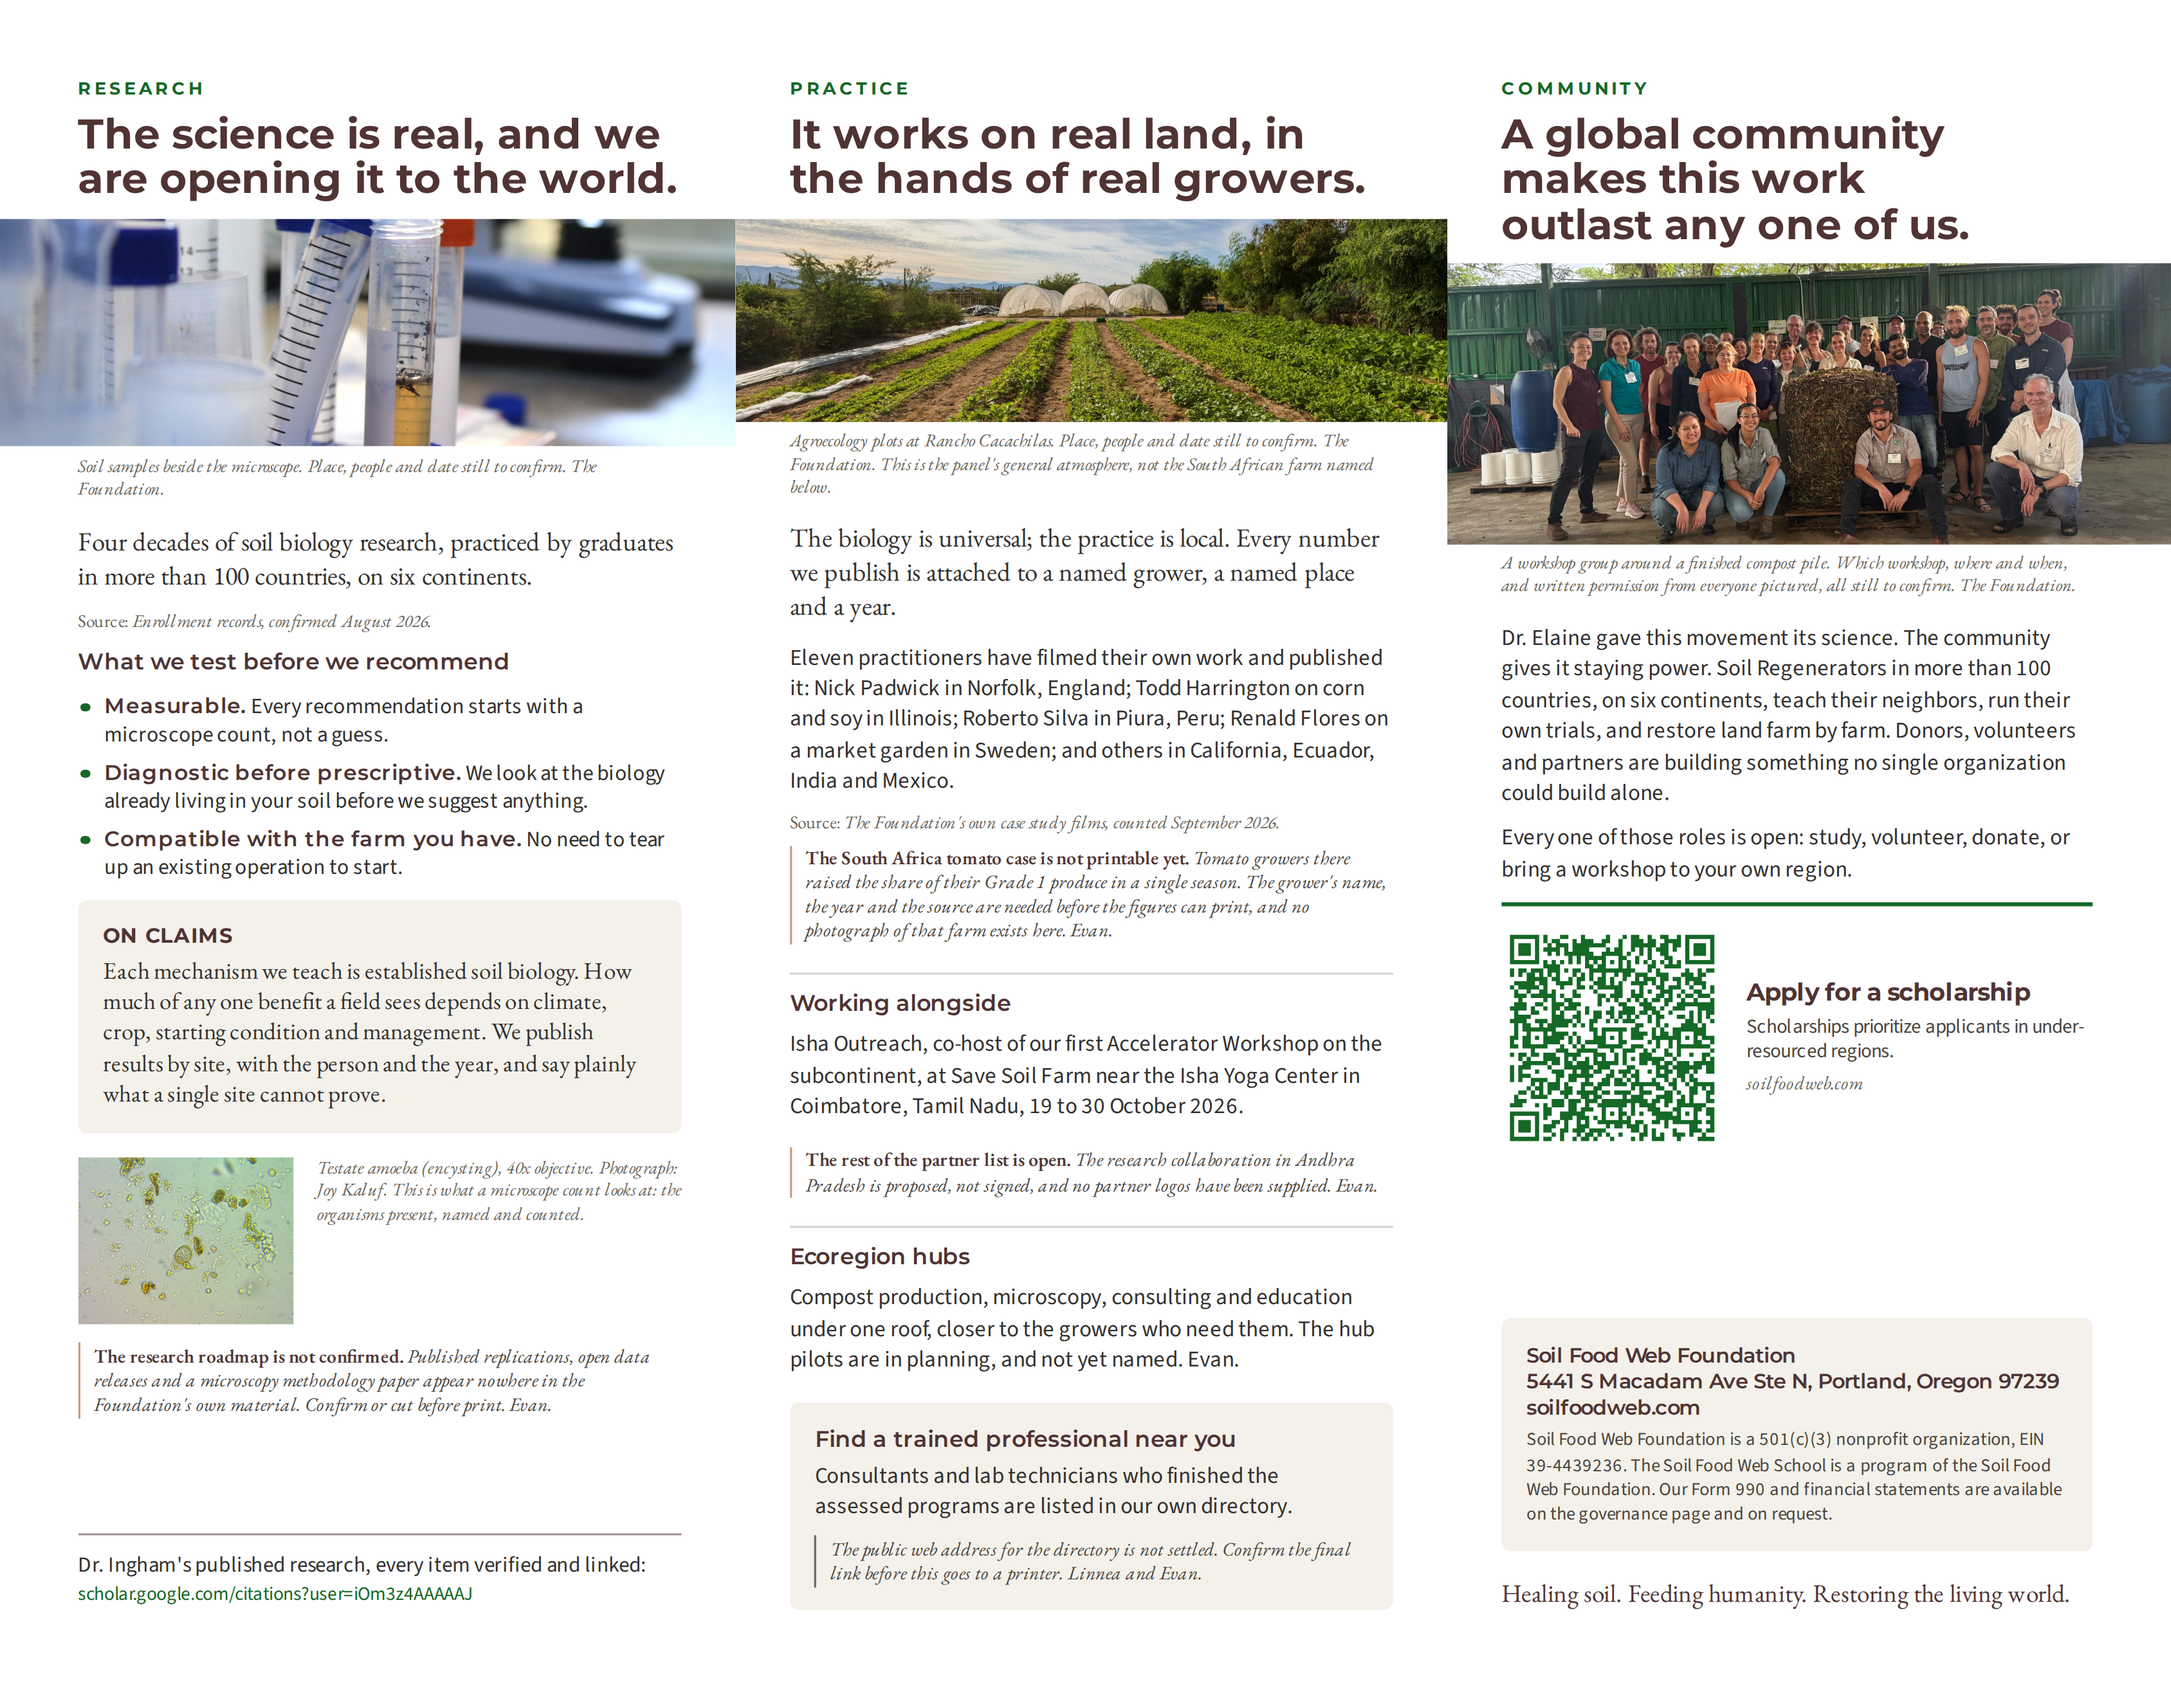
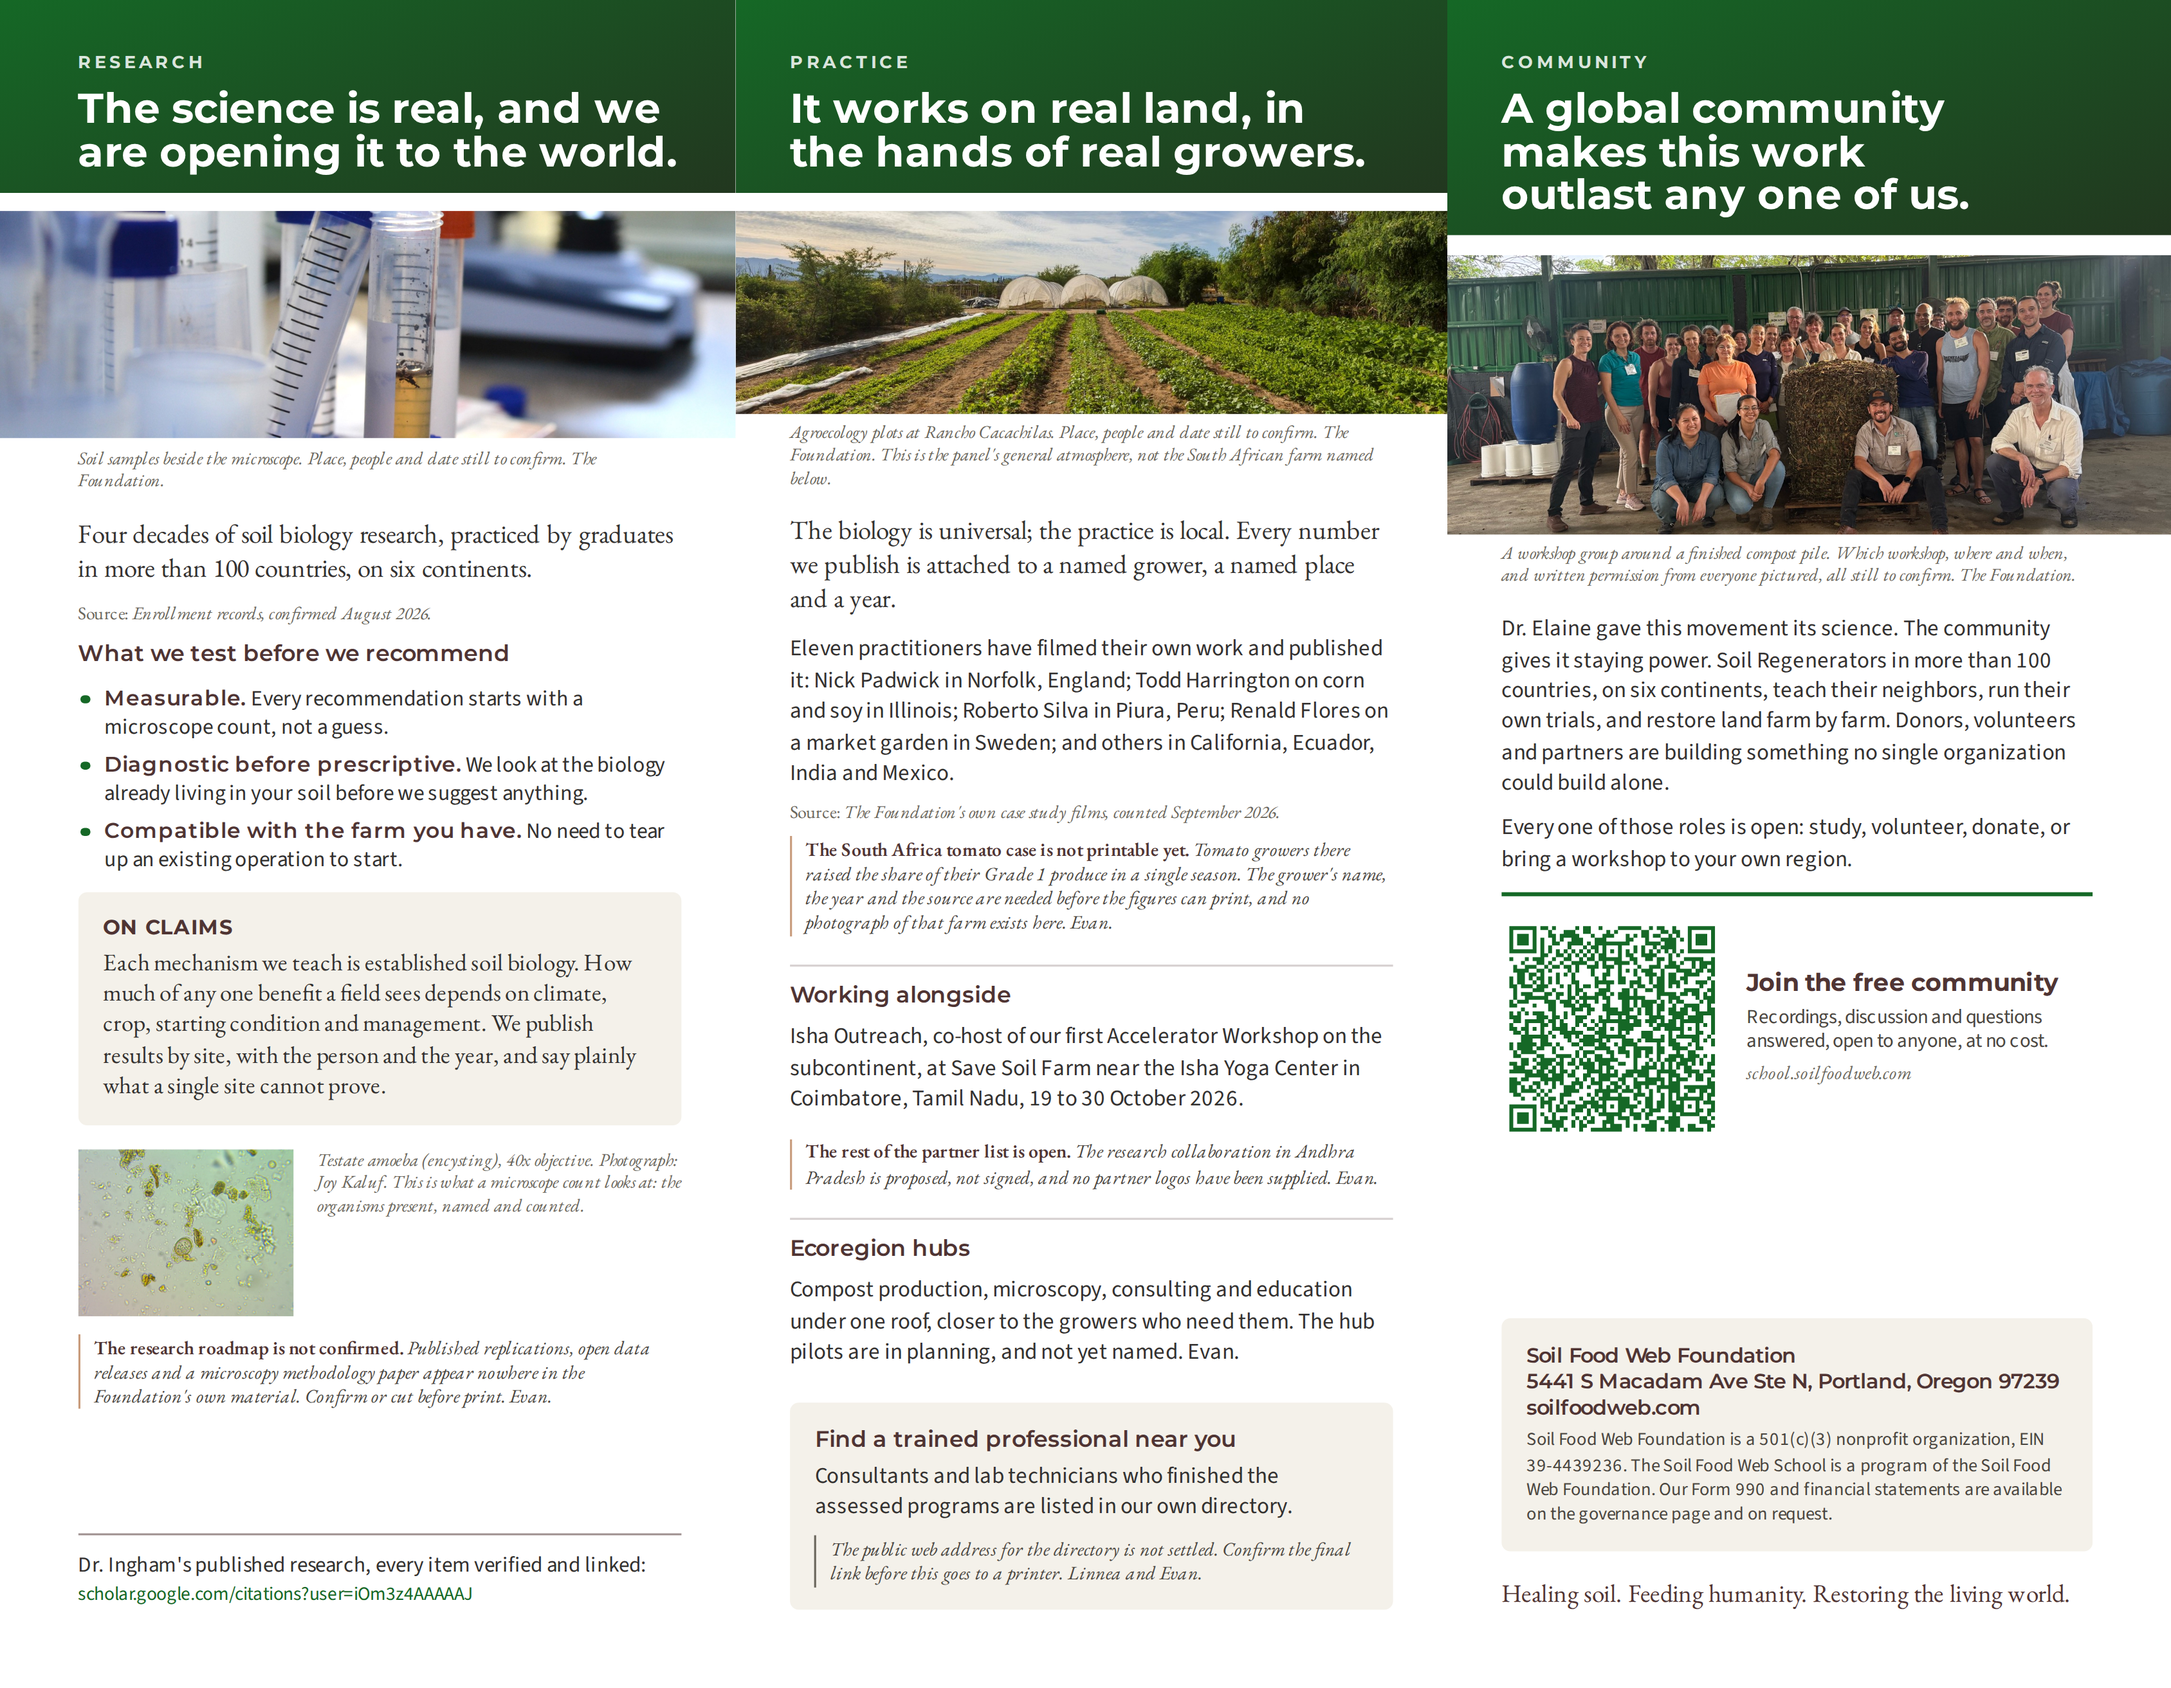
Colour band the pillar headings, and move the QR codes to their pillars
Visual: each pillar panel now opens with its eyebrow and heading reversed out
of a Food Web Green to moss gradient, running the full panel width and up
through the panel's top padding into the bleed, so it trims flush to the top
edge and sits directly above that panel's photograph. Closer to the
colour-blocked reference Linnea supplied, using the palette already in the
piece rather than importing the reference's mint.

It costs almost nothing in height, because that top padding was already empty
white. Only the band's bottom padding is new. The first pass still overflowed
panels 2 and 5 by 15 and 18 points, so the band's top padding is set from the
bleed rather than the full panel pad, and its heading line-height is tightened.
All six panels now fit: 684 to 760 points used against 762 available.

The accent eyebrow modifiers do not apply inside the band. Neither Education
Blue nor Legacy Purple holds against green; both still carry their QR rules,
where they have room to read.

QR codes: the scholarship code moves to Teaching and the community code to
Community, as asked. The webinar code takes the slot that leaves on the story
panel, since one code per panel still holds.

The colour follows the panel, not the code, and each code is generated in its
panel's accent. Moving the markup alone left all three mismatched, so
make-qr.py is reassigned and the codes regenerated. NOTES.md records both the
new assignment and that trap.
[…]

Changed region(s): [[0.0, 0.0, 1.0, 0.8434], [0.3422, 0.3124, 0.6533, 0.8122]]

diff --git a/Trifold Design/build/outside.html b/Trifold Design/build/outside.html
@@ -59,8 +59,10 @@
     <!-- ================= PANEL 2, STORY ================= -->
     <section class="panel panel--wide" data-panel="2">
 
-      <p class="eyebrow eyebrow--legacy">Our story</p>
-      <h2>It began with one scientist looking closer.</h2>
+      <div class="banner">
+        <p class="eyebrow eyebrow--legacy">Our story</p>
+        <h2>It began with one scientist looking closer.</h2>
+      </div>
 
       <figure class="figure figure--full">
         <img src="/img/Dr Elaine Ingham with Microscope.jpg" alt="" style="height:1.82in;object-position:50% 36%">
@@ -97,12 +99,12 @@
       <div class="spacer"></div>
 
       <div class="qr qr--legacy">
-        <img src="qr/community.svg" alt="">
+        <img src="qr/webinar.svg" alt="">
         <div>
-          <div class="t">Join the free community</div>
-          <div class="d">Recordings, discussion and questions answered, open to
-            anyone, at no cost.</div>
-          <div class="h">school.soilfoodweb.com</div>
+          <div class="t">Watch a free webinar</div>
+          <div class="d">A live hour with an instructor or a practitioner, every
+            month. The easiest first step.</div>
+          <div class="h">webinar.soilfoodweb.com</div>
         </div>
       </div>
 
@@ -111,8 +113,10 @@
     <!-- ================= PANEL 3, TEACHING (tuck-in) ================= -->
     <section class="panel panel--tuck panel--last" data-panel="3">
 
-      <p class="eyebrow eyebrow--edu">Teaching</p>
-      <h2>Anyone, anywhere, can learn to restore living soil.</h2>
+      <div class="banner">
+        <p class="eyebrow eyebrow--edu">Teaching</p>
+        <h2>Anyone, anywhere, can learn to restore living soil.</h2>
+      </div>
 
       <figure class="figure figure--full">
         <img src="/img/uploads/Loida Teaching 3.JPG" alt="" style="height:1.29in;object-position:50% 22%">
@@ -157,12 +161,12 @@
       <div class="spacer"></div>
 
       <div class="qr qr--edu">
-        <img src="qr/webinar.svg" alt="">
+        <img src="qr/scholarship.svg" alt="">
         <div>
-          <div class="t">Watch a free webinar</div>
-          <div class="d">A live hour with an instructor or a practitioner, every
-            month. The easiest first step.</div>
-          <div class="h">webinar.soilfoodweb.com</div>
+          <div class="t">Apply for a scholarship</div>
+          <div class="d">Scholarships prioritize applicants in under-resourced
+            regions.</div>
+          <div class="h">soilfoodweb.com</div>
         </div>
       </div>
 

diff --git a/Trifold Design/build/inside.html b/Trifold Design/build/inside.html
@@ -15,8 +15,10 @@
     <!-- ================= PANEL 4, RESEARCH ================= -->
     <section class="panel panel--wide panel--first" data-panel="4">
 
-      <p class="eyebrow">Research</p>
-      <h2>The science is real, and we are opening it to the world.</h2>
+      <div class="banner">
+        <p class="eyebrow">Research</p>
+        <h2>The science is real, and we are opening it to the world.</h2>
+      </div>
 
       <figure class="figure figure--full">
         <img src="/img/Test tubes with sample_.jpg" alt="" style="height:1.18in;object-position:50% 50%">
@@ -71,8 +73,10 @@
     <!-- ================= PANEL 5, PRACTICE ================= -->
     <section class="panel panel--wide" data-panel="5">
 
-      <p class="eyebrow">Practice</p>
-      <h2>It works on real land, in the hands of real growers.</h2>
+      <div class="banner">
+        <p class="eyebrow">Practice</p>
+        <h2>It works on real land, in the hands of real growers.</h2>
+      </div>
 
       <figure class="figure figure--full">
         <img src="/img/erc-rancho-cacachilas-agro.jpg" alt="" style="height:1.05in;object-position:50% 58%">
@@ -132,8 +136,10 @@
     <!-- ================= PANEL 6, COMMUNITY (tuck-in) ================= -->
     <section class="panel panel--tuck panel--last" data-panel="6">
 
-      <p class="eyebrow">Community</p>
-      <h2>A global community makes this work outlast any one of us.</h2>
+      <div class="banner">
+        <p class="eyebrow">Community</p>
+        <h2>A global community makes this work outlast any one of us.</h2>
+      </div>
 
       <figure class="figure figure--full">
         <img src="/img/uploads/MAR Group Photo 2.jpg" alt="" style="height:1.45in;object-position:50% 52%">
@@ -152,12 +158,12 @@
         workshop to your own region.</p>
 
       <div class="qr qr--green" style="margin-top:0.02in">
-        <img src="qr/scholarship.svg" alt="">
+        <img src="qr/community.svg" alt="">
         <div>
-          <div class="t">Apply for a scholarship</div>
-          <div class="d">Scholarships prioritize applicants in under-resourced
-            regions.</div>
-          <div class="h">soilfoodweb.com</div>
+          <div class="t">Join the free community</div>
+          <div class="d">Recordings, discussion and questions answered, open to
+            anyone, at no cost.</div>
+          <div class="h">school.soilfoodweb.com</div>
         </div>
       </div>
 

diff --git a/Trifold Design/build/trifold.css b/Trifold Design/build/trifold.css
@@ -195,6 +195,37 @@ h3 {
 .hr   { border: 0; border-top: 0.7pt solid var(--rule); margin: 0.085in 0; }
 .hr--strong { border-top: 1pt solid var(--rule-strong); }
 
+/* --------------------------------------------------------------------------
+   The colour band
+   --------------------------------------------------------------------------
+   Each pillar panel opens with its eyebrow and heading reversed out of Food
+   Web Green, running the full width of the panel and up through the panel's
+   own top padding into the bleed, so after trimming it sits flush to the top
+   edge. It costs almost no height: that top padding was already empty white,
+   so only the band's bottom padding is new.
+
+   The gradient runs green to moss, both already in the palette. The eyebrow
+   accent modifiers (--edu, --legacy) do not apply inside the band, since
+   neither blue nor purple holds against green; the accents still carry the
+   QR rules, where they have room to read. */
+.banner {
+  margin: calc((var(--pad) + var(--bleed)) * -1) calc(var(--pad) * -1) 0.095in;
+  padding: calc(var(--bleed) + 0.15in) var(--pad) 0.10in;
+  background: linear-gradient(158deg, var(--green) 0%, var(--moss) 100%);
+}
+.panel--first .banner {
+  margin-left: calc((var(--pad) + var(--bleed)) * -1);
+  padding-left: calc(var(--pad) + var(--bleed));
+}
+.panel--last .banner {
+  margin-right: calc((var(--pad) + var(--bleed)) * -1);
+  padding-right: calc(var(--pad) + var(--bleed));
+}
+.banner .eyebrow,
+.banner .eyebrow--edu,
+.banner .eyebrow--legacy { color: rgba(255, 255, 255, 0.86); }
+.banner h2 { color: #FFFFFF; margin-bottom: 0; line-height: 1.04; }
+
 /* Organic Cream as a bounded rectangle behind a group, never as the page. */
 .card {
   background: var(--panel);

diff --git a/Trifold Design/build/make-qr.py b/Trifold Design/build/make-qr.py
@@ -15,22 +15,22 @@ OUT.mkdir(exist_ok=True)
 BASE = "utm_source=trifold&utm_medium=print&utm_campaign=foundation_brochure"
 
 CODES = {
-    # panel 2, the Dr. Elaine story panel. --legacy, Legacy Purple.
+    # panel 6, Community. --green, Food Web Green.
     "community": (
         "https://school.soilfoodweb.com/products/communities/SFW-public-community"
         f"?{BASE}&utm_content=community",
+        "#156826",
+    ),
+    # panel 2, the Dr. Elaine story panel. --legacy, Legacy Purple.
+    "webinar": (
+        f"https://webinar.soilfoodweb.com/?{BASE}&utm_content=webinar",
         "#6B4C7A",
     ),
     # panel 3, Teaching. --edu, Education Blue.
-    "webinar": (
-        f"https://webinar.soilfoodweb.com/?{BASE}&utm_content=webinar",
-        "#3780B8",
-    ),
-    # panel 6, Community. --green, Food Web Green.
     "scholarship": (
         "https://soilfoodweb.com/scholarship-opportunities"
         f"?{BASE}&utm_content=scholarship",
-        "#156826",
+        "#3780B8",
     ),
 }
 

diff --git a/Trifold Design/NOTES.md b/Trifold Design/NOTES.md
@@ -69,9 +69,19 @@ The three QR treatments are therefore:
 
 | Panel | QR | Colour | Token |
 | :-- | :-- | :-- | :-- |
-| 2, Story | Join the free community | #6B4C7A | `--legacy` |
-| 3, Teaching | Watch a free webinar | #3780B8 | `--edu` |
-| 6, Community | Apply for a scholarship | #156826 | `--green` |
+| 2, Story | Watch a free webinar | #6B4C7A | `--legacy` |
+| 3, Teaching | Apply for a scholarship | #3780B8 | `--edu` |
+| 6, Community | Join the free community | #156826 | `--green` |
+
+Linnea reassigned these on 15 September: the scholarship code belongs on the
+education panel and the community code on the community panel. The webinar code
+took the slot that left on the story panel, since the one-code-per-panel rule
+holds and it is the lightest first step of the three.
+
+**The colour follows the panel, not the code.** Each code is generated in its
+panel's accent, so moving a code means regenerating it. Moving the markup alone
+leaves all three mismatched, which is what happened on the first pass of this
+change.
 
 **Both of these want a human decision, not mine.** Two readings are defensible for `--legacy`: it is
 Dr. Elaine's panel, or a QR frame is decoration and the token should stay on editorial content about
